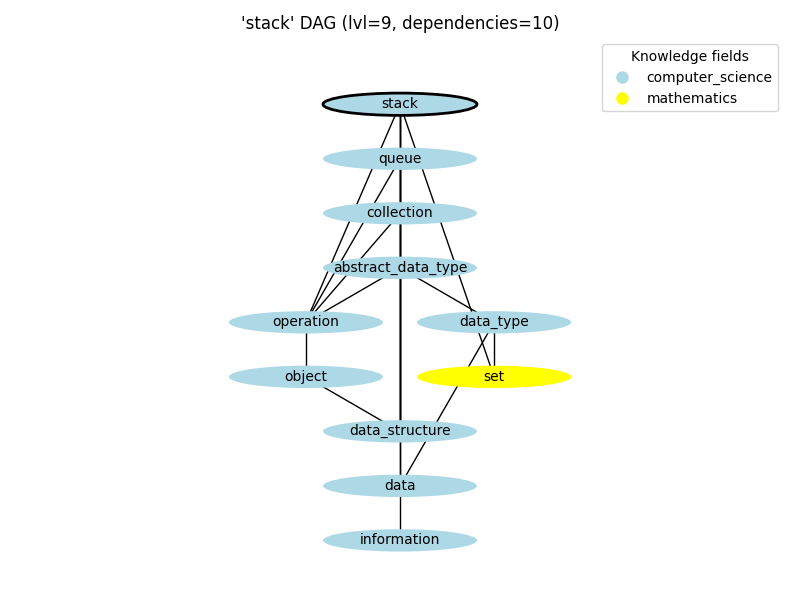
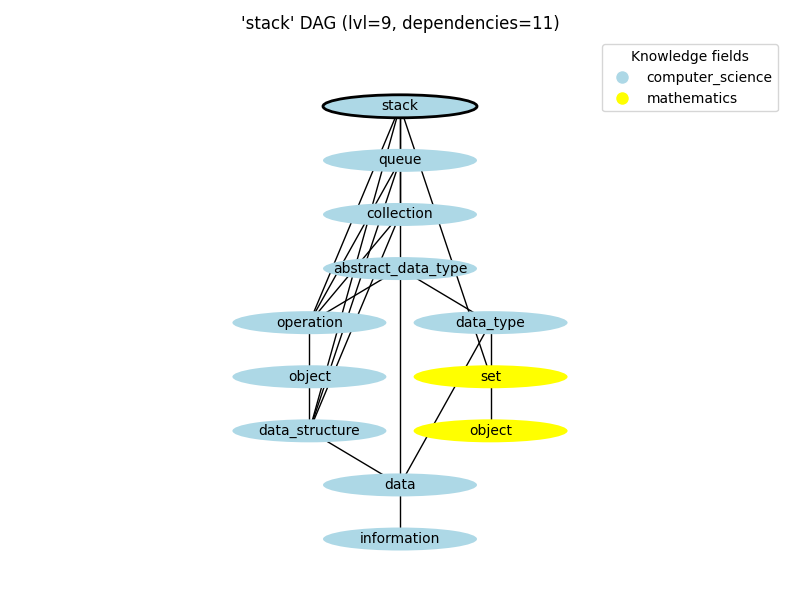
new definitions

diff --git a/README.md b/README.md
@@ -8,11 +8,8 @@ Hierarchy of definitions is a Knowledge Graph[1] with a DAG (directed acyclic gr
 
 When it comes to knowledge representation type, the definitions have procedural 
 representation (explaining the behaviour) and DAGs have structural representation, 
-showing the relations between different definitions. 
-A relation has always the same type: dependency.
-
-First principles thinking is the act of boiling a process down to the 
-fundamental parts that you know are true and building up from there.
+showing the relations between different definitions. Dependency is the only kind of relation
+between definitions.
 
 The most fundamental concepts make up the very bottom of the hierarchy of definitions. 
 The ground level definitions do not have any references to other definitions. 
@@ -21,15 +18,42 @@ The are purely describe without usage of other concepts.
 The higher a concept is placed in the hierarchy, the higher level definitions it can reference to. 
 A definition can only reference to another definition from a lower level. 
 
-## Why?
-
-The target is to create a knowledge model when one can start learning from 
-a foundamental concepts and climbing to higher level of hierarchy. 
-Picking a single definition, the descendent nodes indicate what should be 
-firstly understood to fully understand the chosen definition.
-
 Over time, the DAG can be updated with more precise and better placed definitions. 
 It is a kind of living, systematic knowledge representation of a specific field of knowledge.
+
+## Why?
+
+First principles thinking is the act of boiling a process down to the 
+fundamental parts that you know are true and building up from there.
+It is a way of understanding the world by breaking down complex problems into their most basic elements.
+
+The original idea behind "DefinIT" was to create a knowledge representation for the field of computer science. 
+In the early stages of the field, the importance of a unambiguous expert language has been highlighted. 
+In 1954, Grace Hopper, a pioneer in computer programming, wrote a "First Glossary of Programming Terminology"[2].
+She was working on first programming language to express operations using English-like statements. The language was later called FLOW-MATIC, originally known as B-0 (Business Language version 0). She recognized the need for a standardized vocabulary
+to facilitate communication among programmers and engineers.
+This glossary was one of the first attempts to create a common language for computer science,
+and it laid the groundwork for future efforts to standardize terminology in the field.
+
+In the 1960s, the Association for Computing Machinery (ACM) established a committee to develop a standardized vocabulary for computer science.
+In 1964, the committee produced the "ACM Computing Classification System"[3], which provided a hierarchical classification of computing topics and terms.
+The current version (from 2012) of the "ACM Computing Classification System" is widely used in academic publishing and research to categorize computer science literature. It has a tree structure with a set of classes and subclasses that cover various areas of computer science, including algorithms, programming languages, software engineering, and artificial intelligence.
+
+In the 1970s, the IEEE (Institute of Electrical and Electronics Engineers) also recognized the need for standardized terminology in computer science and engineering.
+They established the "IEEE Standard Glossary of Software Engineering Terminology"[4], which provided definitions for key terms in software engineering.
+
+In the 1980s and 1990s, as computer science and technology continued to evolve rapidly,
+there were numerous efforts to create standardized vocabularies and glossaries in various subfields of computer science.
+For example, the Object Management Group (OMG) developed the Unified Modeling Language (UML)[5],
+which included a standardized set of terms and symbols for modeling software systems.
+In the 2000s and beyond, the rise of the internet and online resources led to the creation of numerous glossaries and dictionaries for computer science terminology.
+Many universities and organizations began to publish their own glossaries and dictionaries,
+and online platforms like Wikipedia became valuable resources for finding definitions and explanations of computer science terms.
+
+Then why do we need "DefinIT"? What new thing does it bring to the current state of affairs? The target is to build a knowledge model when one can start learning from 
+foundamental concepts and easily climb to higher levels in hierarchy. 
+Picking a single definition, the descendent nodes indicate what should be 
+firstly understood to fully understand the chosen definition.
 
 Keeping the DAG structure enforce us to build a definition on top of the more general concepts. 
 It makes it clear how specific is the concept of our interest. 
@@ -41,7 +65,10 @@ Climping up on the DAG we learn more specific, high level concepts
 Figure 1. 'stack' dependencies DAG.
 
 The DAG is going to be precise and well arranged knowledge representation. 
-It can be used by humans and artificial intelligence systems as well.
+It can be used by humans for example to learn a new field of knowledge.
+Specyfing an unambiguous language that experts in a field use to communicate with each other 
+will improve the quality and clarity of the communication.
+It can also be used by LLMs (Language Models) as a solid training/tuning data or part of prompting.
 
 ## How?
 
@@ -77,23 +104,33 @@ The are several issue to be solved before introducing such process:
 - how does a transaction of knowledge coins corresponds to the knowledge coin mining?
 - Is the mining only triggered on an PR merge or on transactions as well?
 
-## Bibliography
+## Mentioned materials
 
 1. "A Common Sense View of Knowledge Graphs", Mike Bergman, https://www.mkbergman.com/2244/a-common-sense-view-of-knowledge-graphs/
 
-2. "What is Knowledge Representation in Artificial Intelligence?", 
+2. "Report to ACM: First Glossary of Programming Terminology", Grace Hopper, https://archive.computerhistory.org/resources/text/Knuth_Don_X4100/PDF_index/k-8-pdf/k-8-u2741-2-ACM-Glossary.pdf
+
+3. "ACM Computing Classification System", Association for Computing Machinery, https://dl.acm.org/ccs
+
+4. "IEEE Standard Glossary of Software Engineering Terminology", IEEE, https://ieeexplore.ieee.org/document/159342
+
+5. "Unified Modeling Language", Object Management Group, https://www.omg.org/spec/UML
+
+## Related materials
+
+I. "What is Knowledge Representation in Artificial Intelligence?", 
 Sumeet Bansal, https://www.analytixlabs.co.in/blog/what-is-knowledge-representation-in-artificial-intelligence
 
-3. "Ontology", wikipedia, https://en.wikipedia.org/wiki/Ontology
+II. "Ontology", wikipedia, https://en.wikipedia.org/wiki/Ontology
 
-4. "Theory of categories", wikipedia, https://en.wikipedia.org/wiki/Theory_of_categories
+III. "Theory of categories", wikipedia, https://en.wikipedia.org/wiki/Theory_of_categories
 
-5. "Universal (metaphysics)", wikipedia, https://en.wikipedia.org/wiki/Universal_(metaphysics)
+IV. "Universal (metaphysics)", wikipedia, https://en.wikipedia.org/wiki/Universal_(metaphysics)
 
-6. "Class (philosophy)", wikipedia, https://en.wikipedia.org/wiki/Class_(philosophy)
+V. "Class (philosophy)", wikipedia, https://en.wikipedia.org/wiki/Class_(philosophy)
 
-7. "KBpedia", https://kbpedia.org/
+VI. "KBpedia", https://kbpedia.org/
 
-8. "Charles Sanders Peirce", wikipedia, https://en.wikipedia.org/wiki/Charles_Sanders_Peirce
+VII. "Charles Sanders Peirce", wikipedia, https://en.wikipedia.org/wiki/Charles_Sanders_Peirce
 
-9. "A Knowledge Representation Practionary", Michael K. Bergman, https://www.mkbergman.com/a-knowledge-representation-practionary/
+VIII. "A Knowledge Representation Practionary", Michael K. Bergman, https://www.mkbergman.com/a-knowledge-representation-practionary/

diff --git a/data_md/computer_science/index.md b/data_md/computer_science/index.md
@@ -11,6 +11,9 @@
 - [map](./definitions/data_structure/map.md)
 - [boolean](./definitions/data_structure/primitive/boolean.md)
 - [collection](./definitions/data_structure/collection.md)
-- [list](./definitions/data_structure/collection/list.md)
+- [list](./definitions/data_structure/collection/list/list.md)
 - [queue](./definitions/data_structure/collection/queue.md)
 - [stack](./definitions/data_structure/collection/stack.md)
+- [priority_queue](./definitions/data_structure/collection/priority_queue.md)
+- [bag](./definitions/data_structure/collection/bag.md)
+- [set](./definitions/data_structure/collection/set.md)

diff --git a/data_md/computer_science/definitions/data_structure/collection/priority_queue.md b/data_md/computer_science/definitions/data_structure/collection/priority_queue.md
@@ -1,0 +1,3 @@
+# priority_queue
+
+A priority queue is an [abstract data type](/data_md/computer_science/definitions/data_structure/abstract_data_type.md) that operates similarly to a regular [queue](/data_md/computer_science/definitions/data_structure/collection/queue.md) but with an added feature: each element in the priority queue has a "priority" associated with it. Elements with higher priority are served before elements with lower priority. If two elements have the same priority, they are served according to their order in the queue (FIFO - First In, First Out).

diff --git a/data_md/computer_science/definitions/data_structure/collection/set.md b/data_md/computer_science/definitions/data_structure/collection/set.md
@@ -1,0 +1,3 @@
+# set
+
+A set is an [abstract data type](/data_md/computer_science/definitions/data_structure/abstract_data_type.md) that can store unique values, without any particular order. It is a computer implementation of the mathematical concept of a [finite set](/data_md/mathematics/definitions/foundamental/finite_set.md). Unlike most other [collection](/data_md/computer_science/definitions/data_structure/collection.md) types, rather than retrieving a specific element from a set, one typically tests a value for membership in a set.

diff --git a/data_md/mathematics/index.md b/data_md/mathematics/index.md
@@ -1,0 +1,9 @@
+- [set](./definitions/foundamental/set.md)
+- [multiset](./definitions/foundamental/multiset.md)
+- [finite_set](./definitions/foundamental/finite_set.md)
+- [function](./definitions/foundamental/function.md)
+- [relation](./definitions/foundamental/relation.md)
+- [graph](./definitions/foundamental/graph/graph.md)
+- [node](./definitions/foundamental/graph/node.md)
+- [edge](./definitions/foundamental/graph/edge.md)
+- [object](./definitions/foundamental/object.md)

diff --git a/data_md/mathematics/definitions/graph/graph.md b/data_md/mathematics/definitions/graph/graph.md
@@ -1,0 +1,3 @@
+# graph
+
+Graphs are used to model pairwise [relations](/data_md/mathematics/definitions/foundamental/relation.md) between objects. A graph is made up of [nodes](/data_md/mathematics/definitions/graph/node.md) and [edges](/data_md/mathematics/definitions/graph/edge.md). Graphs can be directed or undirected, weighted or unweighted, and can represent various types of [relationships](/data_md/mathematics/definitions/foundamental/relation.md) in different fields.

diff --git a/data_md/computer_science/definitions/data_structure/collection/bag.md b/data_md/computer_science/definitions/data_structure/collection/bag.md
@@ -1,0 +1,3 @@
+# bag
+
+A bug is a [collection](/data_md/computer_science/definitions/data_strucute/collection.md) that allows for the storage of multiple items, where the same item can be stored multiple times. It is similar to a [multiset](/data_md/mathematics/definitions/foundamental/multiset.md), but does not require any specific ordering of the items. Removing items is not supported. A bug allows to iterate through the collected items.

diff --git a/data_md/mathematics/definitions/foundamental/function.md b/data_md/mathematics/definitions/foundamental/function.md
@@ -1,3 +1,3 @@
 # function
 
-In mathematics, a function from a set X to a set Y assigns to each element of X exactly one element of Y.
+Function it is a kind of [relation](/data_md/mathematics/definitions/foundamental/relation.md) which from a set X to a set Y assigns to each element (or [object](/data_md/mathematics/definitions/foundamental/object.md)) of X exactly one element of Y.

diff --git a/data_md/mathematics/definitions/foundamental/set.md b/data_md/mathematics/definitions/foundamental/set.md
@@ -1,3 +1,3 @@
 # set
 
-Set is a group of different things. These things are called elements or members of the set and are typically mathematical objects of any kind.
+Set is a group of different things. These things are called elements or members of the set and are typically mathematical [objects](/data_md/mathematics/definitions/foundamental/object.md) of any kind.

diff --git a/data_md/mathematics/definitions/foundamental/multiset.md b/data_md/mathematics/definitions/foundamental/multiset.md
@@ -1,0 +1,3 @@
+# multiset
+
+A multiset is a [set](/data_md/mathematics/definitions/foundamental/set.md) that allows for multiple occurrences of the same element. Unlike a traditional set, which only allows unique elements, a multi-set can contain duplicates. This means that the same element can appear more than once.

diff --git a/data_md/computer_science/definitions/data_structure/collection/list/list.md b/data_md/computer_science/definitions/data_structure/collection/list/list.md
@@ -1,0 +1,3 @@
+# list
+
+An ordered [collection](/data_md/computer_science/definitions/data_structure/collection.md). Also known as a sequence. One can add, remove, and pop any element from the list. List can store elements of different [types](/data_md/computer_science/definitions/foundamental/data_type.md).

diff --git a/data_md/mathematics/definitions/graph/edge.md b/data_md/mathematics/definitions/graph/edge.md
@@ -1,0 +1,3 @@
+# edge
+
+An edge is a directed or undirected connection between two [nodes](/data_md/mathematics/definitions/graph/node.md). It defines a [relationship](/data_md/mathematics/definitions/foundamental/relation.md) or link between them.
